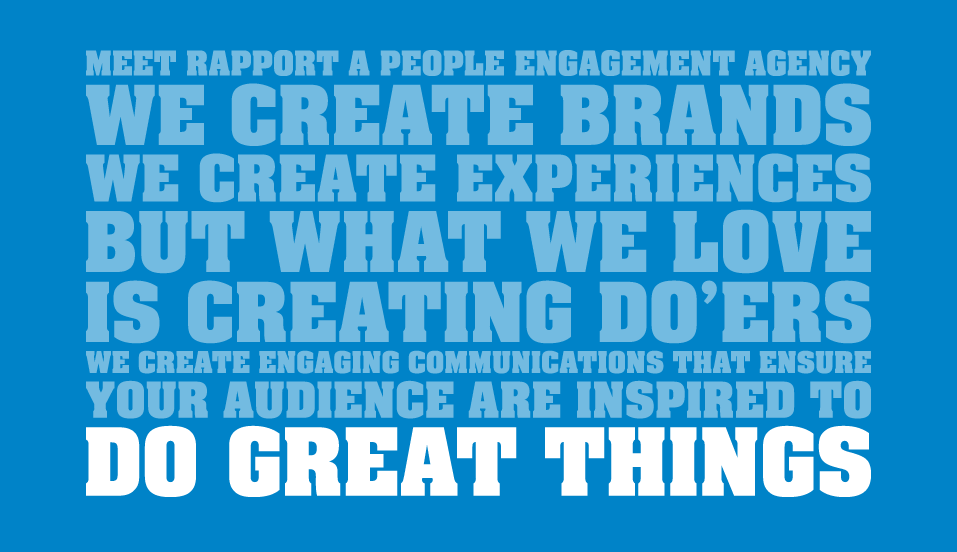
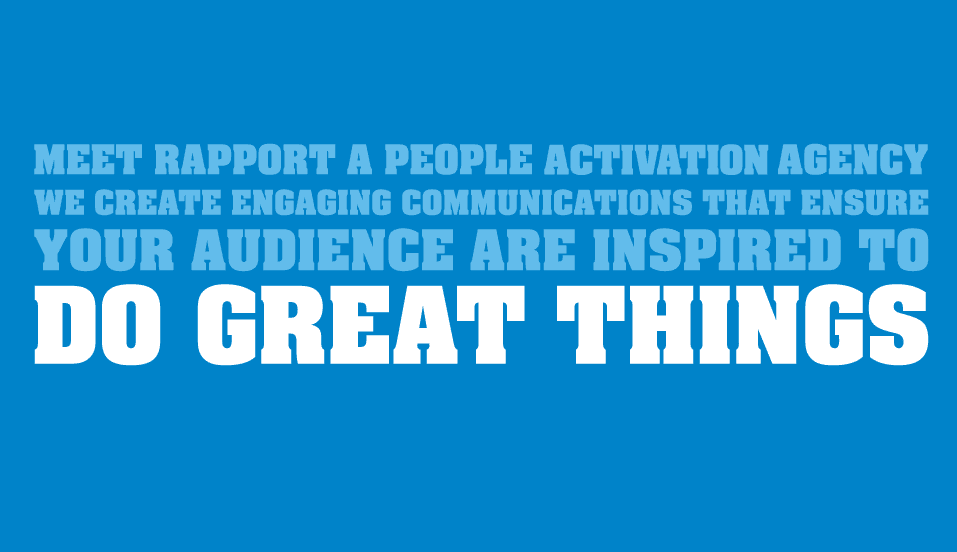
changed image

diff --git a/source/stylesheets/application.css.scss b/source/stylesheets/application.css.scss
@@ -225,6 +225,7 @@ p {
 
 body.work {
   color: $blue;
+
   #main .row {
     margin-bottom: 15px;
     img {
@@ -234,29 +235,27 @@ body.work {
       margin-bottom: 0;
     }
   }
+
   .bm {
     margin-bottom: 15px !important;
   }
 
   .main-quote {
     z-index: 30;
-  .white, .blue {
-    font-size: 1.7em;
-    line-height: 1.7em;
-  }
-  .white {
-  background: 0;
-  margin-top: -12px;
-}
+    position: absolute;
+    .white, .blue {
+      font-size: 1.7em;
+      line-height: 1.7em;
+    }
+    .white {
+      background: 0;
+      margin-top: -12px;
+    }
   }
 
-    .white, .blue {
+  .white, .blue {
     font-size: 1.3em;
     line-height: 1.5em;
-    }
-
-  .main-quote {
-    position: absolute;
   }
 }
 
